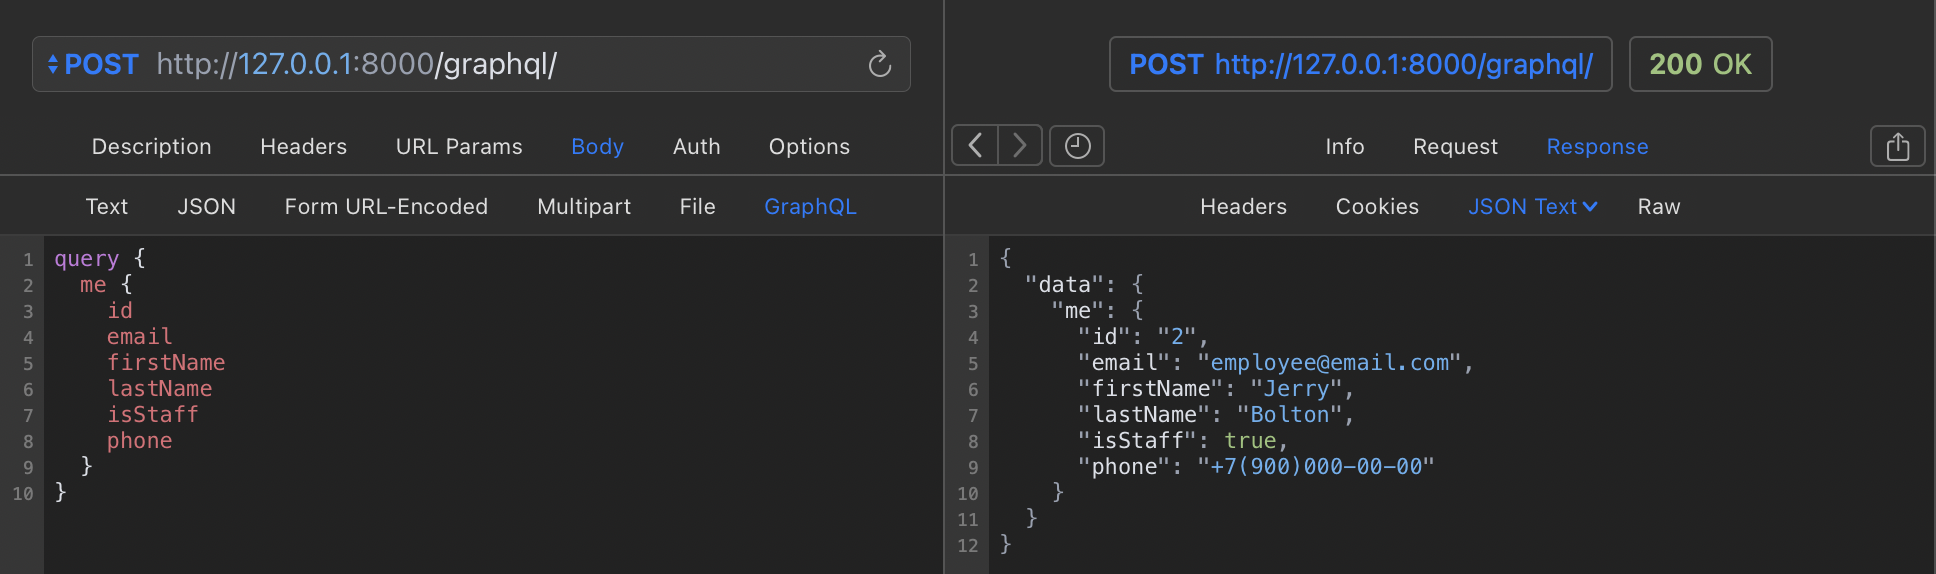
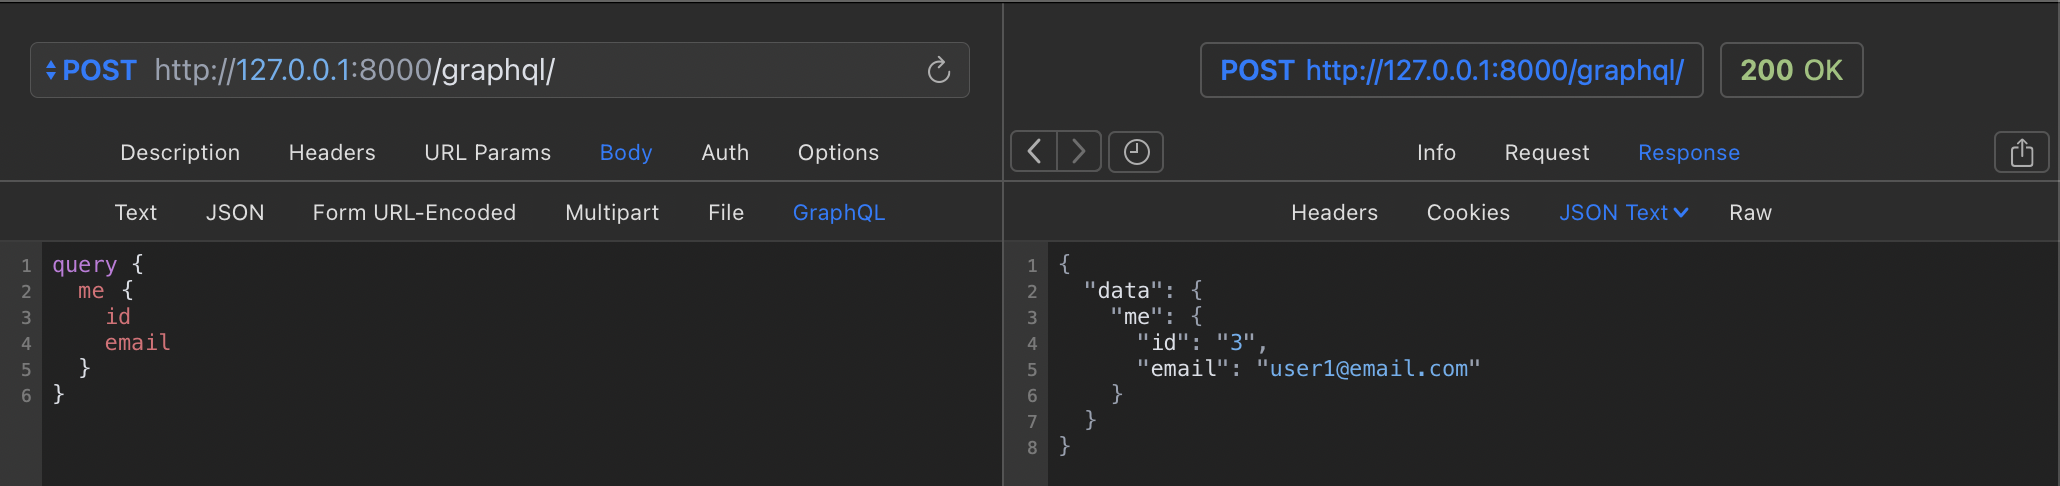
User Query and Mutation"

diff --git a/backend/users/mutations.py b/backend/users/mutations.py
@@ -1,80 +1,37 @@
 import graphene
 from graphql import GraphQLError
 
-from requests.schema import UserType
+from users.schema import UserType
 from users.models import User
-
-
-class UserInput(graphene.InputObjectType):
-    '''
-    Arguments for User update mutation class.
-    Defines fields allowing user to change the data.
-    '''
-    user_id = graphene.ID(required=True)
-    first_name = graphene.String()
-    last_name = graphene.String()
-    phone = graphene.String()
 
 
 class UpdateUser(graphene.Mutation):
     '''
-    Changes additional information about user.
-    First name, last name, phone.
+    Changes user's email.
     '''
     user = graphene.Field(UserType)
 
     class Arguments:
-        user_data = UserInput(required=True)
+        email = graphene.String()
 
-    def mutate(self, info, user_data):
+    def mutate(self, info, email):
         user = info.context.user
 
         if user.is_anonymous:
             raise GraphQLError('You need to be logged in.')
 
-        user_instance = User.objects.get(id=user_data.user_id)
+        user_instance = User.objects.get(id=user.id)
 
-        if user != user_instance and user.is_staff == False:
+        if user_instance != user:
             raise GraphQLError('Not found.')
 
-        if user_instance == user or user.is_staff:
-            if user_data.first_name is not None:
-                user_instance.first_name = user_data.first_name
-            if user_data.last_name is not None:
-                user_instance.last_name = user_data.last_name
-            if user_data.phone is not None:
-                user_instance.phone = user_data.phone
-            user_instance.save()
-            return UpdateUser(user=user_instance)
+        if email is not None:
+            user_instance.email = email
 
-
-class MakeUserStaff(graphene.Mutation):
-    '''
-    Superuser can give staff rights to employees.
-    '''
-    user = graphene.Field(UserType)
-
-    class Arguments:
-        user_id = graphene.ID(required=True)
-        is_staff = graphene.Boolean(required=True)
-
-    def mutate(self, info, user_id, is_staff):
-        user = info.context.user
-
-        if user.is_anonymous:
-            raise GraphQLError('You need to be logged in.')
-
-        user_instance = User.objects.get(id=user_id)
-
-        if user.is_superuser == False:
-            raise GraphQLError('Access denied.')
-
-        if user.is_superuser:
-            user_instance.is_staff = is_staff
         user_instance.save()
+
         return UpdateUser(user=user_instance)
 
 
 class Mutation(graphene.ObjectType):
     update_user = UpdateUser.Field()
-    make_user_staff = MakeUserStaff.Field()

diff --git a/backend/users/schema.py b/backend/users/schema.py
@@ -9,37 +9,16 @@ from users.models import User
 class UserType(DjangoObjectType):
     class Meta:
         model = User
-        exclude = ['password', 'requests']
-        description = " Type definition for a single request "
+        fields = ['id', 'email']
+        description = "Type definition for a single request."
 
 
 class Query(graphene.ObjectType):
-    all_users = graphene.List(UserType)
-    user = graphene.Field(UserType, id=graphene.ID(required=True))
-    me = graphene.Field(UserType, id=graphene.ID())
+    '''
+    Resolves id and email of authenticated user.
+    '''
 
-    def resolve_all_users(self, info, **kwargs):
-        user = info.context.user
-
-        if user.is_anonymous:
-            raise GraphQLError('You need to be logged in.')
-
-        if user.is_superuser == False:
-            raise GraphQLError('Access denied.')
-
-        if user.is_superuser:
-            return gql_optimizer.query(User.objects.all(), info)
-
-    def resolve_user(self, info, id):
-        user = info.context.user
-
-        if user.is_anonymous:
-            raise GraphQLError('You need to be logged in.')
-
-        if user.is_staff == False:
-            raise GraphQLError('Access denied.')
-
-        return User.objects.get(id=id)
+    me = graphene.Field(UserType)
 
     def resolve_me(self, info):
         user = info.context.user

diff --git a/backend/users/migrations/0002_auto_20210723_2238.py b/backend/users/migrations/0002_auto_20210723_2238.py
@@ -1,0 +1,23 @@
+# Generated by Django 3.2.5 on 2021-07-23 19:38
+
+from django.db import migrations, models
+
+
+class Migration(migrations.Migration):
+
+    dependencies = [
+        ('users', '0001_initial'),
+    ]
+
+    operations = [
+        migrations.AddField(
+            model_name='user',
+            name='first_name',
+            field=models.CharField(blank=True, max_length=30, null=True),
+        ),
+        migrations.AddField(
+            model_name='user',
+            name='last_name',
+            field=models.CharField(blank=True, max_length=30, null=True),
+        ),
+    ]

diff --git a/backend/users/models.py b/backend/users/models.py
@@ -41,6 +41,8 @@ class User(AbstractBaseUser):
     is_staff = models.BooleanField(default=False)
     is_active = models.BooleanField(default=True)
     is_superuser = models.BooleanField(default=False)
+    first_name = models.CharField(max_length=30, null=True, blank=True)
+    last_name = models.CharField(max_length=30, null=True, blank=True)
     username = models.CharField(blank=True, null=True, max_length=20)
 
     objects = UserManager()

diff --git a/backend/config/schema.py b/backend/config/schema.py
@@ -13,15 +13,11 @@ class AuthMutation(graphene.ObjectType):
     refresh_token = mutations.RefreshToken.Field()
 
 
-class Query(users.schema.Query, requests.schema.Query, graphene.ObjectType):
+class Query(users.schema.Query, graphene.ObjectType):
     pass
 
 
-class Mutation(
-    AuthMutation,
-    requests.mutations.Mutation,
-    users.mutations.Mutation,
-):
+class Mutation(AuthMutation, users.mutations.Mutation):
     pass
 
 

diff --git a/backend/README.md b/backend/README.md
@@ -2,17 +2,13 @@
 
 ## Пользователи
 
-1. Клиент
-
-2. Сотрудник компании (staff)
-
-3. Администратор (superuser) - утверждает, что пользователь является сотрудником компании.
+Пользователями сервиса являются сотрудники компании.
 
 ### Регистрация и аутентификация
 
 Чтобы зарегистрировать пользователя необходимо воспользоваться **register Mutation**.
 
-Обязательные поля для регистрации: почта и пароль.
+Необходимые поля для регистрации: почта и пароль.
 
 ![Register](img/register.png)
 
@@ -20,29 +16,13 @@
 
 ![Login](img/login.png)
 
-Пользователь может дополнить информацию о себе с помощью **userUpdate Mutation**.
-
-Доступные поля: имя, фамилия, телефон.
-
-Дополнительные данные всех клиентов может поменять любой сотрудник компании.
+Пользователь может поменять свою почту с помощью **updateUser Mutation**
 
 ![updateUser](img/updateUser.png)
 
-Администратор утверждает, что пользователь действительно является сотрудником компании через **makeUserStaff Mutation**.
-
-![makeUserStaff](img/makeUserStaff.png)
-
 ### Получение данных о пользователях
 
-Администратор может получить данные всех пользователей с помощью **allUsers Query**.
-
-![allUsers](img/allUsers.png)
-
-Сотрудник может получить данные о клиенте по его ID c помощью **user Query**.
-
-![user](img/user.png)
-
-Клиент / сотрудник может получить свои данные с помощью **me Query**.
+Пользователь может получить свои данные с помощью **me Query**.
 
 ![me](img/me.png)
 
